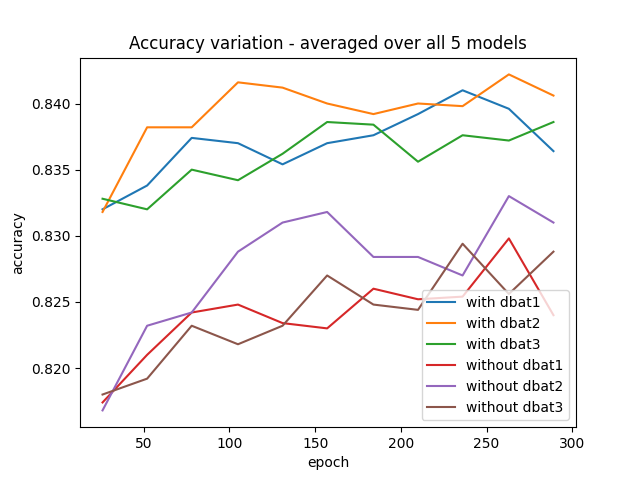
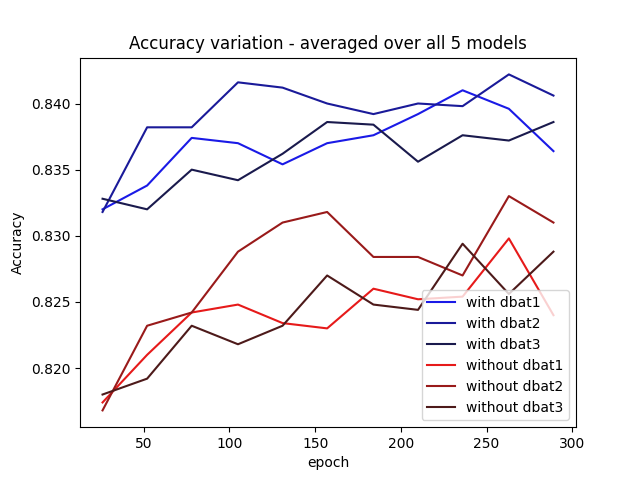
updated plots

diff --git a/num_classes_cifar/runs/num_classes_plotter.py b/num_classes_cifar/runs/num_classes_plotter.py
@@ -1,0 +1,81 @@
+import matplotlib.pyplot as plt
+import numpy as np
+
+
+without_dbat1 = np.array([0.8877999782562256, 0.8969999551773071, 0.8981999754905701, 0.8983999490737915])
+without_dbat2 = np.array([0.8811999559402466, 0.8967999815940857, 0.9035999774932861, 0.9041999578475952])
+without_dbat3 = np.array([0.8829999566078186, 0.894599974155426, 0.8981999754905701, 0.9007999897003174])
+with_dbat1 = np.array([0.8877999782562256 ,0.8953999876976013, 0.9003999829292297, 0.9035999774932861])
+with_dbat2 = np.array([0.8811999559402466 ,0.8967999815940857, 0.9023999571800232, 0.9023999571800232])
+with_dbat3 = np.array([0.8829999566078186 ,0.8971999883651733, 0.8973999619483948, 0.9017999768257141])
+
+x_axis = [1, 2, 3, 4]
+
+plt.plot(x_axis, without_dbat1, label = 'without dbat1', c=(0.8,0.1,0.1))
+plt.plot(x_axis, with_dbat1, label = 'with dbat1', c=(0.1,0.1,0.8))
+plt.plot(x_axis, without_dbat2, label = 'without dbat2', c=(0.6,0.1,0.1))
+plt.plot(x_axis, with_dbat2, label = 'with dbat2', c=(0.1,0.1,0.6))
+plt.plot(x_axis, without_dbat3, label = 'without dbat3', c=(0.4,0.1,0.1))
+plt.plot(x_axis, with_dbat3, label = 'with dbat3', c=(0.1,0.1,0.4))
+
+plt.legend()
+plt.xticks([1, 2, 3, 4])
+
+plt.xlabel('Ensemble Size')
+plt.ylabel('Accuracy')
+plt.title("Accuracy Variation with Ensemble Size - With and Without DBAT")
+
+
+plt.savefig('num_ensembles_absolute_many.png')
+plt.cla()
+
+net_without_dbat = np.array([without_dbat1, without_dbat2, without_dbat3])[:,1:]
+net_with_dbat = np.array([with_dbat1, with_dbat2, with_dbat3])[:,1:]
+# print('means:', np.mean(net_without_dbat, axis = 0), np.mean(net_with_dbat, axis = 0))
+# print('std:', np.std(net_without_dbat, axis = 0), np.std(net_with_dbat, axis = 0))
+plt.errorbar(x_axis[1:], np.mean(net_without_dbat, axis = 0), yerr=np.std(net_without_dbat, axis = 0), label = 'without dbat', capsize=5,capthick=1)
+plt.errorbar(x_axis[1:], np.mean(net_with_dbat, axis = 0), yerr=np.std(net_with_dbat, axis = 0), label = 'with dbat', capsize=5,capthick=1)
+plt.legend()
+plt.xticks([2, 3, 4])  
+
+plt.xlabel('Ensemble Size')
+plt.ylabel('Accuracy')
+plt.title("Accuracy Variation with Ensemble size - With and Without DBAT")
+
+plt.savefig('num_ensembles_error_bars_zoom.png')
+plt.cla()
+
+net_without_dbat = np.array([without_dbat1, without_dbat2, without_dbat3])
+net_with_dbat = np.array([with_dbat1, with_dbat2, with_dbat3])
+# print('means:', np.mean(net_without_dbat, axis = 0), np.mean(net_with_dbat, axis = 0))
+# print('std:', np.std(net_without_dbat, axis = 0), np.std(net_with_dbat, axis = 0))
+plt.errorbar(x_axis, np.mean(net_without_dbat, axis = 0), yerr=np.std(net_without_dbat, axis = 0), label = 'without dbat', capsize=5,capthick=1)
+plt.errorbar(x_axis, np.mean(net_with_dbat, axis = 0), yerr=np.std(net_with_dbat, axis = 0), label = 'with dbat', capsize=5,capthick=1)
+plt.legend()
+plt.xticks([1, 2, 3, 4])  
+
+plt.xlabel('Ensemble Size')
+plt.ylabel('Accuracy')
+plt.title("Accuracy Variation with Ensemble size - With and Without DBAT")
+
+plt.savefig('num_ensembles_error_bars_full.png')
+plt.cla()
+
+
+
+
+plt.plot(x_axis, with_dbat1/without_dbat1, label = 'Relative accuracy')
+plt.plot(x_axis, with_dbat1/without_dbat2, label = 'Relative accuracy')
+plt.plot(x_axis, with_dbat1/without_dbat1, label = 'Relative accuracy')
+
+plt.axhline(y=1, color='r', linestyle='--', label='Equal Accuracy')
+
+plt.legend()
+plt.xticks([1, 2, 3, 4])
+
+plt.xlabel('Ensemble Size')
+plt.ylabel('Relative Accuracy')
+plt.title("Relative Accuracy Variation with Ensemble Size - With/Without DBAT")
+
+
+plt.savefig('num_ensembles_relative_many.png')

diff --git a/num_classes_cifar/runs_newloss/num_classes_plotter.py b/num_classes_cifar/runs_newloss/num_classes_plotter.py
@@ -1,0 +1,81 @@
+import matplotlib.pyplot as plt
+import numpy as np
+
+
+without_dbat1 = np.array([0.8877999782562256, 0.8969999551773071, 0.8981999754905701, 0.8983999490737915])
+without_dbat2 = np.array([0.8811999559402466, 0.8967999815940857, 0.9035999774932861, 0.9041999578475952])
+without_dbat3 = np.array([0.8829999566078186, 0.894599974155426, 0.8981999754905701, 0.9007999897003174])
+with_dbat1 = np.array([0.8877999782562256 ,0.8953999876976013, 0.9003999829292297, 0.9035999774932861])
+with_dbat2 = np.array([0.8811999559402466 ,0.8967999815940857, 0.9023999571800232, 0.9023999571800232])
+with_dbat3 = np.array([0.8829999566078186 ,0.8971999883651733, 0.8973999619483948, 0.9017999768257141])
+
+x_axis = [1, 2, 3, 4]
+
+plt.plot(x_axis, without_dbat1, label = 'without dbat1', c=(0.8,0.1,0.1))
+plt.plot(x_axis, with_dbat1, label = 'with dbat1', c=(0.1,0.1,0.8))
+plt.plot(x_axis, without_dbat2, label = 'without dbat2', c=(0.6,0.1,0.1))
+plt.plot(x_axis, with_dbat2, label = 'with dbat2', c=(0.1,0.1,0.6))
+plt.plot(x_axis, without_dbat3, label = 'without dbat3', c=(0.4,0.1,0.1))
+plt.plot(x_axis, with_dbat3, label = 'with dbat3', c=(0.1,0.1,0.4))
+
+plt.legend()
+plt.xticks([1, 2, 3, 4])
+
+plt.xlabel('Ensemble Size')
+plt.ylabel('Accuracy')
+plt.title("Accuracy Variation with Ensemble Size - With and Without DBAT")
+
+
+plt.savefig('num_ensembles_absolute_many.png')
+plt.cla()
+
+net_without_dbat = np.array([without_dbat1, without_dbat2, without_dbat3])[:,1:]
+net_with_dbat = np.array([with_dbat1, with_dbat2, with_dbat3])[:,1:]
+# print('means:', np.mean(net_without_dbat, axis = 0), np.mean(net_with_dbat, axis = 0))
+# print('std:', np.std(net_without_dbat, axis = 0), np.std(net_with_dbat, axis = 0))
+plt.errorbar(x_axis[1:], np.mean(net_without_dbat, axis = 0), yerr=np.std(net_without_dbat, axis = 0), label = 'without dbat', capsize=5,capthick=1)
+plt.errorbar(x_axis[1:], np.mean(net_with_dbat, axis = 0), yerr=np.std(net_with_dbat, axis = 0), label = 'with dbat', capsize=5,capthick=1)
+plt.legend()
+plt.xticks([2, 3, 4])  
+
+plt.xlabel('Ensemble Size')
+plt.ylabel('Accuracy')
+plt.title("Accuracy Variation with Ensemble size - With and Without DBAT")
+
+plt.savefig('num_ensembles_error_bars_zoom.png')
+plt.cla()
+
+net_without_dbat = np.array([without_dbat1, without_dbat2, without_dbat3])
+net_with_dbat = np.array([with_dbat1, with_dbat2, with_dbat3])
+# print('means:', np.mean(net_without_dbat, axis = 0), np.mean(net_with_dbat, axis = 0))
+# print('std:', np.std(net_without_dbat, axis = 0), np.std(net_with_dbat, axis = 0))
+plt.errorbar(x_axis, np.mean(net_without_dbat, axis = 0), yerr=np.std(net_without_dbat, axis = 0), label = 'without dbat', capsize=5,capthick=1)
+plt.errorbar(x_axis, np.mean(net_with_dbat, axis = 0), yerr=np.std(net_with_dbat, axis = 0), label = 'with dbat', capsize=5,capthick=1)
+plt.legend()
+plt.xticks([1, 2, 3, 4])  
+
+plt.xlabel('Ensemble Size')
+plt.ylabel('Accuracy')
+plt.title("Accuracy Variation with Ensemble size - With and Without DBAT")
+
+plt.savefig('num_ensembles_error_bars_full.png')
+plt.cla()
+
+
+
+
+plt.plot(x_axis, with_dbat1/without_dbat1, label = 'Relative accuracy')
+plt.plot(x_axis, with_dbat1/without_dbat2, label = 'Relative accuracy')
+plt.plot(x_axis, with_dbat1/without_dbat1, label = 'Relative accuracy')
+
+plt.axhline(y=1, color='r', linestyle='--', label='Equal Accuracy')
+
+plt.legend()
+plt.xticks([1, 2, 3, 4])
+
+plt.xlabel('Ensemble Size')
+plt.ylabel('Relative Accuracy')
+plt.title("Relative Accuracy Variation with Ensemble Size - With/Without DBAT")
+
+
+plt.savefig('num_ensembles_relative_many.png')

diff --git a/waterbird_multi_run/plotter_waterbird_training.py b/waterbird_multi_run/plotter_waterbird_training.py
@@ -222,9 +222,9 @@ without_epochs3 = np.array(without_epochs)
 
 
 # print(without_dbat.shape)
-plt.plot(np.mean(with_epochs1, axis=0)[1:],np.mean(with_dbat1, axis=0)[1:], label='with dbat1')
-plt.plot(np.mean(with_epochs2, axis=0)[1:],np.mean(with_dbat2, axis=0)[1:], label='with dbat2')
-plt.plot(np.mean(with_epochs3, axis=0)[1:],np.mean(with_dbat3, axis=0)[1:], label='with dbat3')
+plt.plot(np.mean(with_epochs1, axis=0)[1:],np.mean(with_dbat1, axis=0)[1:], label='with dbat1', c=(0.1,0.1,0.9))
+plt.plot(np.mean(with_epochs2, axis=0)[1:],np.mean(with_dbat2, axis=0)[1:], label='with dbat2', c=(0.1,0.1,0.6))
+plt.plot(np.mean(with_epochs3, axis=0)[1:],np.mean(with_dbat3, axis=0)[1:], label='with dbat3', c=(0.1,0.1,0.3))
 
 # plt.plot(with_dbat[1], label='2')
 # plt.plot(with_dbat[2], label='3')
@@ -232,9 +232,9 @@ plt.plot(np.mean(with_epochs3, axis=0)[1:],np.mean(with_dbat3, axis=0)[1:], labe
 # plt.plot(with_dbat[4], label='5')
 # plt.legend()
 
-plt.plot(np.mean(without_epochs1, axis=0)[1:],np.mean(without_dbat1, axis=0)[1:], label='without dbat1')
-plt.plot(np.mean(without_epochs2, axis=0)[1:],np.mean(without_dbat2, axis=0)[1:], label='without dbat2')
-plt.plot(np.mean(without_epochs3, axis=0)[1:],np.mean(without_dbat3, axis=0)[1:], label='without dbat3')
+plt.plot(np.mean(without_epochs1, axis=0)[1:],np.mean(without_dbat1, axis=0)[1:], label='without dbat1', c=(0.9,0.1,0.1))
+plt.plot(np.mean(without_epochs2, axis=0)[1:],np.mean(without_dbat2, axis=0)[1:], label='without dbat2', c=(0.6,0.1,0.1))
+plt.plot(np.mean(without_epochs3, axis=0)[1:],np.mean(without_dbat3, axis=0)[1:], label='without dbat3', c=(0.3,0.1,0.1))
 
 # plt.plot(without_dbat[1], label='2o')
 # plt.plot(without_dbat[2], label='3o')
@@ -242,7 +242,7 @@ plt.plot(np.mean(without_epochs3, axis=0)[1:],np.mean(without_dbat3, axis=0)[1:]
 # plt.plot(without_dbat[4], label='5o')
 plt.legend()
 plt.xlabel('epoch')
-plt.ylabel('accuracy')
+plt.ylabel('Accuracy')
 plt.title('Accuracy variation - averaged over all 5 models')
 plt.savefig(f'Plot-{fname.split("/")[-1]}.png')
 

diff --git a/waterbird_multi_run/waterbird_results_plotter.py b/waterbird_multi_run/waterbird_results_plotter.py
@@ -12,12 +12,12 @@ with_dbat3 = np.array([0.834, 0.845, 0.848, 0.850, 0.848])
 
 x_axis = [1, 2, 3, 4, 5]
 
-plt.plot(x_axis, without_dbat1, label = 'without dbat1', c=(0.8,0.1,0.1))
-plt.plot(x_axis, with_dbat1, label = 'with dbat1', c=(0.1,0.1,0.8))
+plt.plot(x_axis, without_dbat1, label = 'without dbat1', c=(0.9,0.1,0.1))
+plt.plot(x_axis, with_dbat1, label = 'with dbat1', c=(0.1,0.1,0.9))
 plt.plot(x_axis, without_dbat2, label = 'without dbat2', c=(0.6,0.1,0.1))
 plt.plot(x_axis, with_dbat2, label = 'with dbat2', c=(0.1,0.1,0.6))
-plt.plot(x_axis, without_dbat3, label = 'without dbat3', c=(0.4,0.1,0.1))
-plt.plot(x_axis, with_dbat3, label = 'with dbat3', c=(0.1,0.1,0.4))
+plt.plot(x_axis, without_dbat3, label = 'without dbat3', c=(0.3,0.1,0.1))
+plt.plot(x_axis, with_dbat3, label = 'with dbat3', c=(0.1,0.1,0.3))
 
 
 plt.legend()
